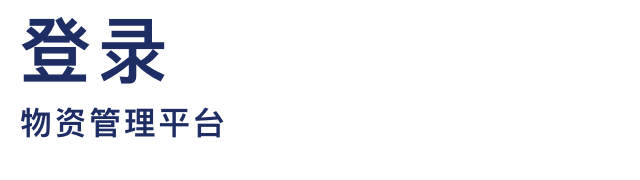
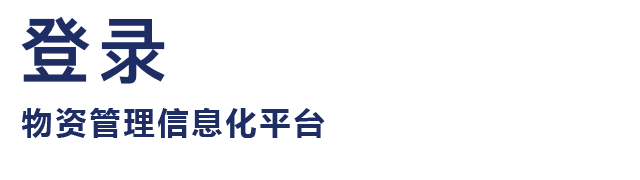
fix: 门户首页图片替换

Changed region(s): [[0.0312, 0.5833, 0.5312, 0.7778]]

diff --git a/src/views/portal.vue b/src/views/portal.vue
@@ -26,7 +26,7 @@
                         <img :src="item.icon" /><a download href="/建设物资管理系统操作说明书-v1.0.docx" class="docNameLabel">{{ item.title }}</a>
                       </span>
                     </div>
-                </li> 
+                </li>
               </ul>
           </div>
         </div>
@@ -206,7 +206,7 @@ export default {
       this.getUserMenu()
       this.getList()
       this.getmaterialList()
-       
+
     },
     mounted() {
 
@@ -257,7 +257,7 @@ export default {
           if(name){
               this.$router.push({ name })
           }
-      }, 
+      },
       //通知消息点击更多
       handleNoticeMore() {
           this.$router.push({name:'message'})
@@ -301,10 +301,10 @@ export default {
       loginSHIndex(val){
         window.open(process.env.VUE_APP_OPEN_URL+"/index?userName="+this.userInfo.username+"&type="+val,"_self","",true)
       },
-  
+
     },
     beforeDestroy() {
-      
+
     }
 };
 </script>
@@ -400,7 +400,7 @@ export default {
             }
           }
         }
-        } 
+        }
       }
     }
   }
@@ -445,7 +445,7 @@ export default {
       line-height: 999px;
       color: #0F2241;
       overflow: hidden;
-      background: url(../assets/login/Title1.png) no-repeat center top;
+      background: url(../assets/login/Title.png) no-repeat center top;
       background-size: contain;
     }
     .banner-login-btn{
@@ -522,8 +522,8 @@ export default {
       width:1220px;
       height: 110px;
       margin: 0 auto;
-    
-      
+
+
       margin-top: 14px;
       ul{
         padding: 13px 38px;
@@ -577,7 +577,7 @@ export default {
             background-image: url('../assets/login/Icon(3)@2x.png');
             background-size: cover;
           }
-          
+
         }
         .list-li:nth-child(2){
            .list-li-bg{
@@ -590,8 +590,8 @@ export default {
             background-image: url('../assets/login/Icon(1)@2x.png');
             background-size: cover;
           }
-          
-          
+
+
         }
         .list-li:nth-child(4){
            border-right: none;
@@ -604,7 +604,7 @@ export default {
             width:85px;
           }
         }
-        
+
       }
     }
     .content{
@@ -644,7 +644,7 @@ export default {
               color:#0e142f;
               font-size:16px;
               vertical-align: middle;
-              
+
             }
           }
           .right-title{
@@ -744,7 +744,7 @@ export default {
               color:#0e142f;
               font-size:16px;
               vertical-align: middle;
-              
+
             }
           }
           .right-title{
@@ -875,14 +875,14 @@ export default {
   }
   ::v-deep.el-input .el-input__prefix{
     top: 5px;
- 
+
   }
   ::v-deep.el-form-item .el-form-item__content{
     .el-input--prefix  .el-input__inner{
       padding-left: 35px;
      }
   }
-  
+
   .btn{
     margin-top: 32px;
     .btn-el{
@@ -895,6 +895,6 @@ export default {
       }
     }
   }
- 
+
 }
 </style>

diff --git a/src/permission.js b/src/permission.js
@@ -48,28 +48,28 @@ const versionCheck = async () => {
 
 router.beforeEach(async (to, from, next) => {
     NProgress.start()
-      console.log(to,"111") 
+      console.log(to,"111")
     if(to.path=='/login'){
         const loginType = process.env.VUE_APP_LOGIN_TYPE || 'old'
         if (loginType === 'old') {
-            document.title = "建设物资管理系统";  
-            const link = document.querySelector('[rel="icon"]');  
-            link.href ="./iconLogo.png";     
+            document.title = "建设物资管理系统";
+            const link = document.querySelector('[rel="icon"]');
+            link.href ="./iconLogo.png";
         } else {
-            document.title = "物资管理平台";  
-            const link = document.querySelector('[rel="icon"]');  
-            link.href ="./Logo.png";      
+            document.title = "物资管理信息化平台";
+            const link = document.querySelector('[rel="icon"]');
+            link.href ="./Logo.png";
         }
     }
-    else if(to.path=="/portal") { 
-        document.title = "物资管理平台";  
-        const link = document.querySelector('[rel="icon"]');  
-        link.href ="./Logo.png";  
+    else if(to.path=="/portal") {
+        document.title = "物资管理信息化平台";
+        const link = document.querySelector('[rel="icon"]');
+        link.href ="./Logo.png";
     }else{
-        document.title = "建设物资管理系统";  
-        const link = document.querySelector('[rel="icon"]');  
-        link.href ="./iconLogo.png";  
-    }   
+        document.title = "建设物资管理系统";
+        const link = document.querySelector('[rel="icon"]');
+        link.href ="./iconLogo.png";
+    }
 
     if (to.matched && to.matched.length > 2) {
         to.matched.splice(1, to.matched.length - 2)
@@ -113,7 +113,7 @@ router.beforeEach(async (to, from, next) => {
             NProgress.done()
         } else {
             store.dispatch('GetI18nMessages')
-                
+
             await store.dispatch('getSysConfig')
             try {
                 store.dispatch('GetInfo').then(() => {
